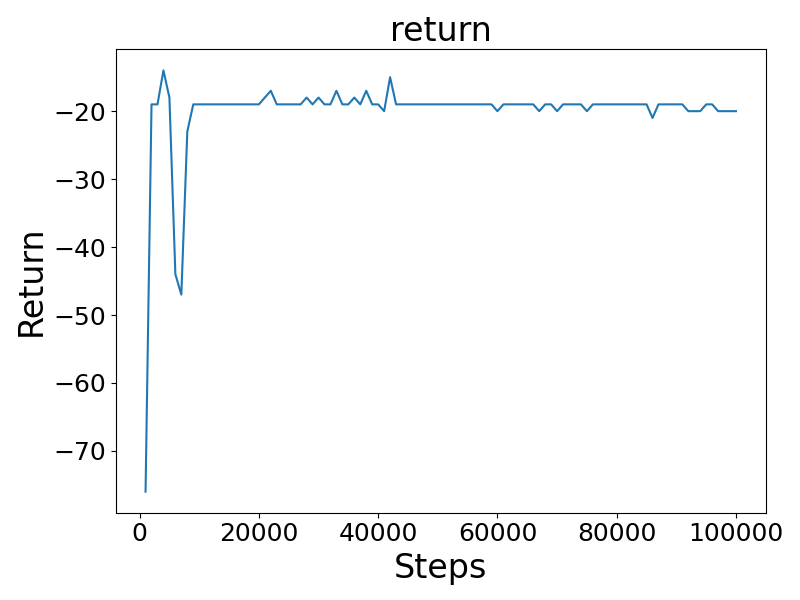
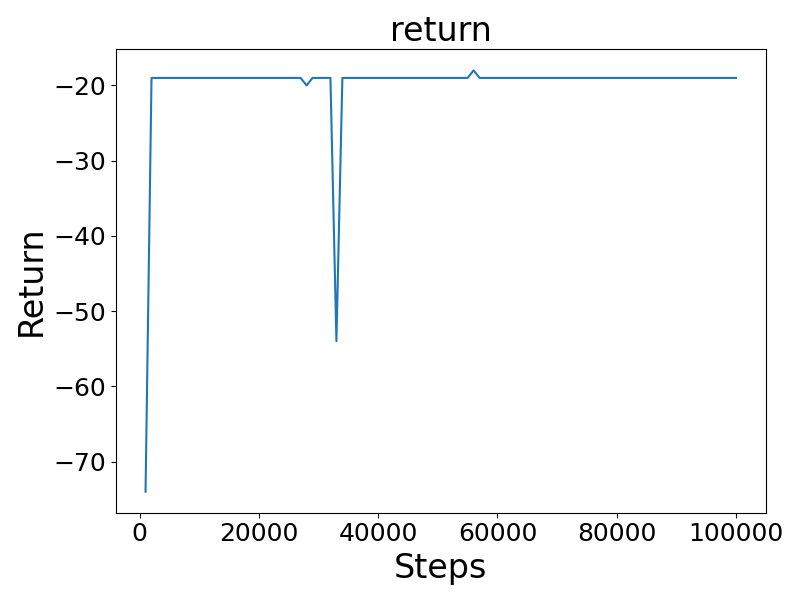
before pull

diff --git a/maze3Env.py b/maze3Env.py
@@ -116,10 +116,10 @@ class maze3Env(gym.Env):
 
     def calc_reward(self, contact, pos, tgt_pos):
         # rewardContact = -1000.0 if contact else 0.0
-        # rewardContact = -100.0 if contact else 0.0
+        rewardContact = -100.0 if contact else 0.0
         # rewardContact = -10.0 if contact else 0.0
         # rewardContact = -50.0 if contact else 0.0
-        rewardContact = 0.0
+        # rewardContact = 0.0
         # rewardDistance = - np.linalg.norm(pos - tgt_pos, ord=2)
         # rewardDistance = 1.0 if np.linalg.norm(pos - tgt_pos, ord=2) < 0.1 else 0.0
         # rewardDistance = 0.0 if (not contact) and (np.linalg.norm(pos - tgt_pos, ord=2) < 0.1) else -1.0

diff --git a/sim.py b/sim.py
@@ -247,7 +247,8 @@ class sim_maze3(sim):
     def isArrive(self, tgt_pos, pos):
         # return  np.linalg.norm(tgt_pos - pos, ord=2) < 0.1
         # return  np.linalg.norm(tgt_pos - pos, ord=1) < 0.1
-        return  np.linalg.norm(tgt_pos - pos, ord=2) < 0.5
+        return  np.linalg.norm(tgt_pos - pos, ord=1) < 0.5
+        # return  np.linalg.norm(tgt_pos - pos, ord=2) < 0.5
 
     def step(self, action):
 
